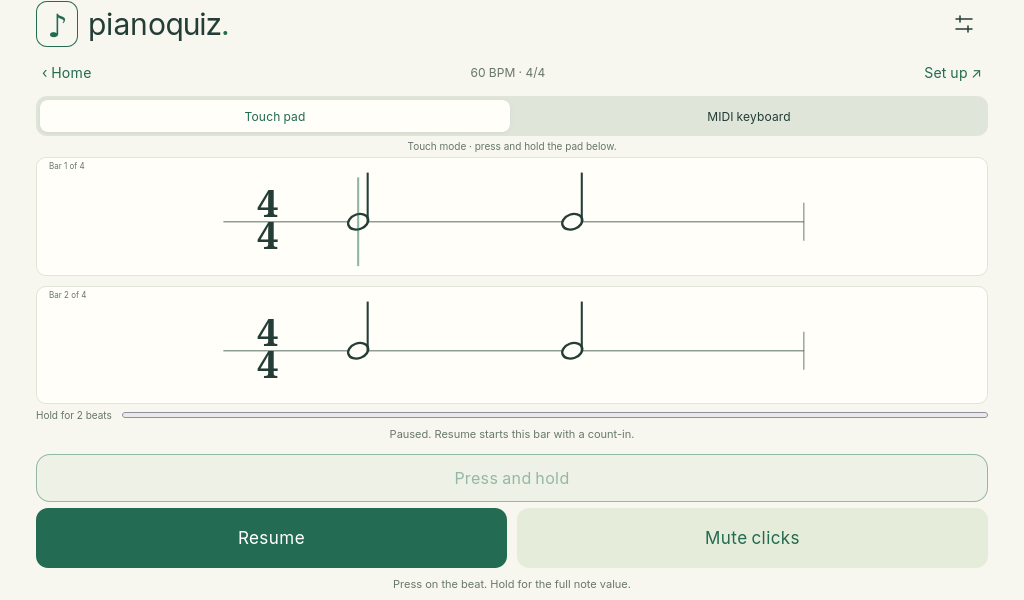
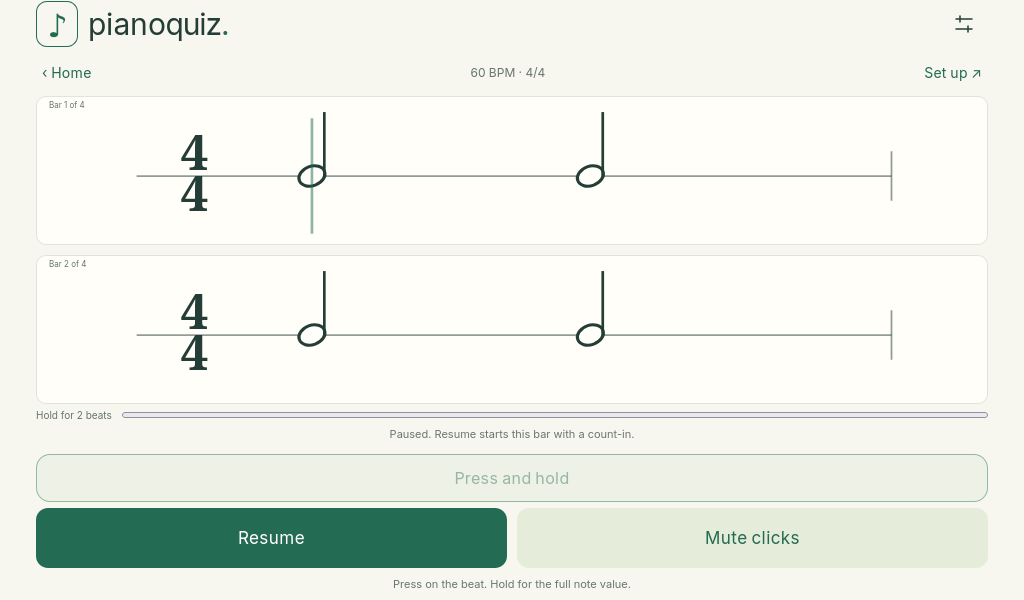
fix: simplify rhythm screen

Changed region(s): [[0.0312, 0.15, 0.9688, 0.42], [0.0312, 0.42, 0.9375, 0.63], [0.0625, 0.27, 0.0938, 0.3]]

diff --git a/js/activities.js b/js/activities.js
@@ -79,8 +79,7 @@ export class Activities {
   inputControls() {
     $('home-training-input').hidden = this.activity !== 'rhythm';
     $('home-sight-tools').hidden = this.activity !== 'sight';
-    $('training-input-row').hidden = !this.exercise;
-    $('live-training-input').hidden = this.activity !== 'rhythm';
+    $('training-input-row').hidden = this.activity !== 'sight';
     $('training-sight-tools').hidden = this.activity !== 'sight';
     $('training-input-status').textContent = this.inputStatus();
     document.querySelectorAll('[data-training-input]').forEach(button => button.setAttribute('aria-pressed', String(button.dataset.trainingInput === this.settings.input)));
@@ -123,7 +122,7 @@ export class Activities {
     document.querySelectorAll('[data-exercise-setting]').forEach(element => { element.hidden = !this.exercise; });
     document.querySelectorAll('[data-sight-setting]').forEach(element => { element.hidden = this.activity !== 'sight'; });
     document.querySelectorAll('[data-rhythm-setting]').forEach(element => { element.hidden = this.activity !== 'rhythm'; });
-    $('training-setup-help').textContent = this.activity === 'sight' ? 'Uses your selected notes, octaves and clefs. Guided waits for you on every note. Continuous uses the Between bars setting. Notes turn green only after a correct hold and release.' : this.activity === 'rhythm' ? 'Choose Touch pad or MIDI keyboard on Home or above the score. A half note lasts two beats. Green means the timing and release are both correct. Count in gives you a full bar to read ahead.' : 'The first beat is accented. Changes during playback start at the next bar.';
+    $('training-setup-help').textContent = this.activity === 'sight' ? 'Uses your selected notes, octaves and clefs. Guided waits for you on every note. Continuous uses the Between bars setting. Notes turn green only after a correct hold and release.' : this.activity === 'rhythm' ? 'Choose Touch pad or MIDI keyboard on Home. A half note lasts two beats. Green means the timing and release are both correct. Count in gives you a full bar to read ahead.' : 'The first beat is accented. Changes during playback start at the next bar.';
     this.openDialog('training-dialog');
   }
 

diff --git a/index.html b/index.html
@@ -55,7 +55,7 @@
 
       <section id="training-screen" class="screen" hidden>
         <div class="training-heading"><button id="training-back" class="text-button">‹ Home</button><span id="training-progress" class="small muted"></span><button id="training-configure" class="text-button">Set up ↗</button></div>
-        <div id="training-input-row" class="training-input-row" hidden><div id="live-training-input" class="segmented" role="group" aria-label="Rhythm input"><button type="button" data-training-input="touch">Touch pad</button><button type="button" data-training-input="midi">MIDI keyboard</button></div><div id="training-sight-tools" class="practice-tools" hidden><strong>MIDI keyboard</strong><button id="live-training-notes" type="button" class="text-button">Choose notes ↗</button></div><p id="training-input-status" class="small muted"></p></div><div id="training-body">
+        <div id="training-input-row" class="training-input-row" hidden><div id="training-sight-tools" class="practice-tools" hidden><strong>MIDI keyboard</strong><button id="live-training-notes" type="button" class="text-button">Choose notes ↗</button></div><p id="training-input-status" class="small muted"></p></div><div id="training-body">
           <h1 id="training-title">Metronome</h1>
           <div id="training-beats" class="beat-dots" aria-label="Beat indicator"></div>
           <div id="metronome-display"><strong id="metronome-number">1</strong><span id="metronome-tempo" class="muted">60 BPM</span><div class="tempo-controls"><button data-tempo-step="-5" class="secondary" aria-label="Slower by five BPM">−</button><label for="live-bpm" class="sr-only">Tempo in BPM</label><input id="live-bpm" type="number" min="40" max="200" step="1" value="60"><button data-tempo-step="5" class="secondary" aria-label="Faster by five BPM">+</button><select id="live-meter" aria-label="Time signature"><option value="4">4/4</option><option value="3">3/4</option></select></div></div>

diff --git a/styles.css b/styles.css
@@ -472,7 +472,6 @@ body,body *{-webkit-user-select:none;user-select:none;-webkit-touch-callout:none
 @media(orientation:landscape) and (max-height:500px){
  #exercise-score .measure+.measure{display:none}
  #training-input-row{display:flex;align-items:center;gap:10px}
- #live-training-input{flex:1}
  #training-input-status{flex:1;margin:0;text-align:right}
  #training-sight-tools{flex:1}
  #training-screen:not([data-activity=metronome]) #training-footnote{display:none}

diff --git a/docs/VERIFICATION.md b/docs/VERIFICATION.md
@@ -3,12 +3,32 @@
 Published and tested on 2026-11-07 (Europe/Warsaw).
 
 - Play: **https://piano-quiz.pages.dev/**
-- Release: `66d5448b286fc3`
-- Production deployment: `788f585f-8d19-4cae-a308-f2c5f31c23db`
-- Immutable URL: https://788f585f.piano-quiz.pages.dev/
+- Release: `ac33e1e774c0e1`
+- Production deployment: `c7a5f5f4-38b3-427f-85ab-5b874eae57f1`
+- Immutable URL: https://c7a5f5f4.piano-quiz.pages.dev/
 - Repository: https://github.com/Listwas/piano-quiz
 
-## Results
+## Latest UI update
+
+Release `ac33e1e774c0e1` removes the input selector and status row from the active
+Rhythm screen. Touch/MIDI selection stays on Home, leaving more room for notation.
+
+All 71 unit tests passed. Six focused rhythm scenarios passed in each of Chromium,
+Firefox and WebKit against the local build, covering touch holds, MIDI holds,
+rotation, unavailable MIDI, Home input selection and bar count-ins. The input
+selection scenario also passed on production in all three engines. Reports:
+[local Chromium](training-focused-chromium.json),
+[local Firefox](training-focused-firefox.json),
+[local WebKit](training-focused-webkit.json),
+[live Chromium](live-training-focused-chromium.json),
+[live Firefox](live-training-focused-firefox.json),
+[live WebKit](live-training-focused-webkit.json).
+
+## Full regression baseline
+
+The comprehensive browser results below describe the preceding release
+`66d5448b286fc3`. This small UI update was checked separately as described above.
+The asset verification and archive metadata describe the current release.
 
 All 39 served files were fetched from production and compared byte for byte with
 `dist/`. HTTP 200, CSP and the MIDI permissions policy were checked.

diff --git a/docs/DEVELOPMENT.md b/docs/DEVELOPMENT.md
@@ -29,8 +29,9 @@ can still claim it. Rest checks use physical key intervals with boundary grace.
 Pause discards the interrupted bar and its extra/retry counters, retaining prior
 bars. Touch uses pointer capture and cancellation pauses the exercise. Native context
 menus, selection and touchstart default gestures are cancelled on the hold pad.
-Touch/MIDI selectors stay visible on Home and in rhythm practice; the connection
-label distinguishes a connected keyboard from the selected input mode.
+Rhythm input is selected on Home. The active exercise omits the input selector
+and its status row to leave more space for notation. Sight-reading retains its
+MIDI connection label and Choose notes shortcut.
 
 Beginner tolerance defaults to ±220 ms for attacks (capped at 45% of adjacent
 onset spacing), and ±30% of note length or 140 ms for holds (capped at 40% for short notes). Strict retains

diff --git a/README.md b/README.md
@@ -61,7 +61,7 @@ Tempo changes during playback take effect at the next bar.
 ### Rhythm exercises
 
 Choose **Rhythm** to practise when to press, how long to hold, and when to rest.
-Choose **Touch pad** or **MIDI keyboard** on Home or above the score.
+Choose **Touch pad** or **MIDI keyboard** on Home before starting.
 Use the pad or any MIDI key. A half note lasts two
 beats; letting go after one beat counts as too short. The music keeps moving
 through mistakes, and the results show beat timing and note lengths separately.

diff --git a/DEPLOY.md b/DEPLOY.md
@@ -6,9 +6,9 @@ Project: `piano-quiz`, production branch `main`, account
 `3bbe51d8973c406839b993e52753a08c`. This is an independent static Pages app;
 the original `random-piano` app is unchanged.
 
-Release `66d5448b286fc3` was published as production deployment
-`788f585f-8d19-4cae-a308-f2c5f31c23db`:
-https://788f585f.piano-quiz.pages.dev/
+Release `ac33e1e774c0e1` was published as production deployment
+`c7a5f5f4-38b3-427f-85ab-5b874eae57f1`:
+https://c7a5f5f4.piano-quiz.pages.dev/
 
 ## Publish an update
 
